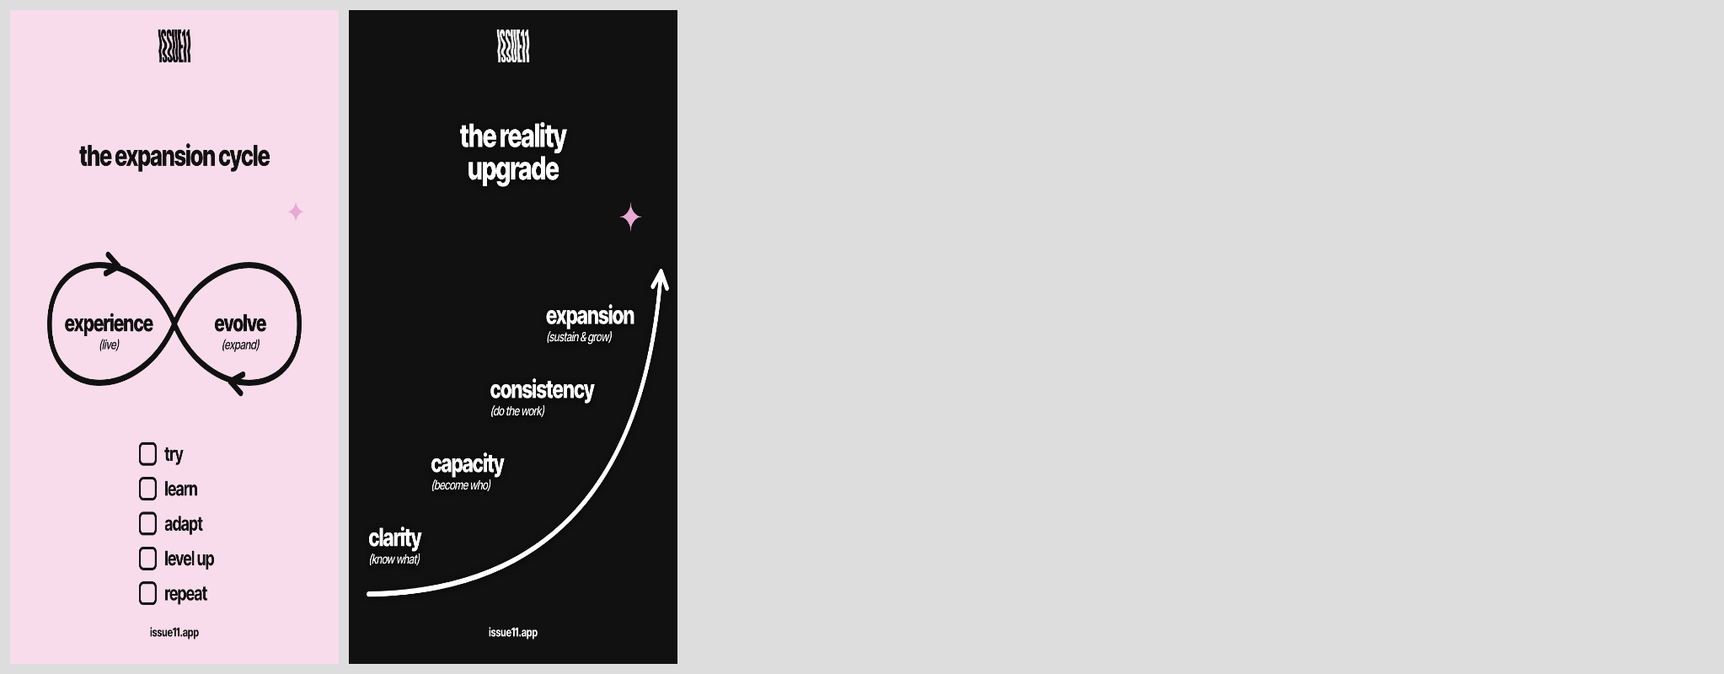
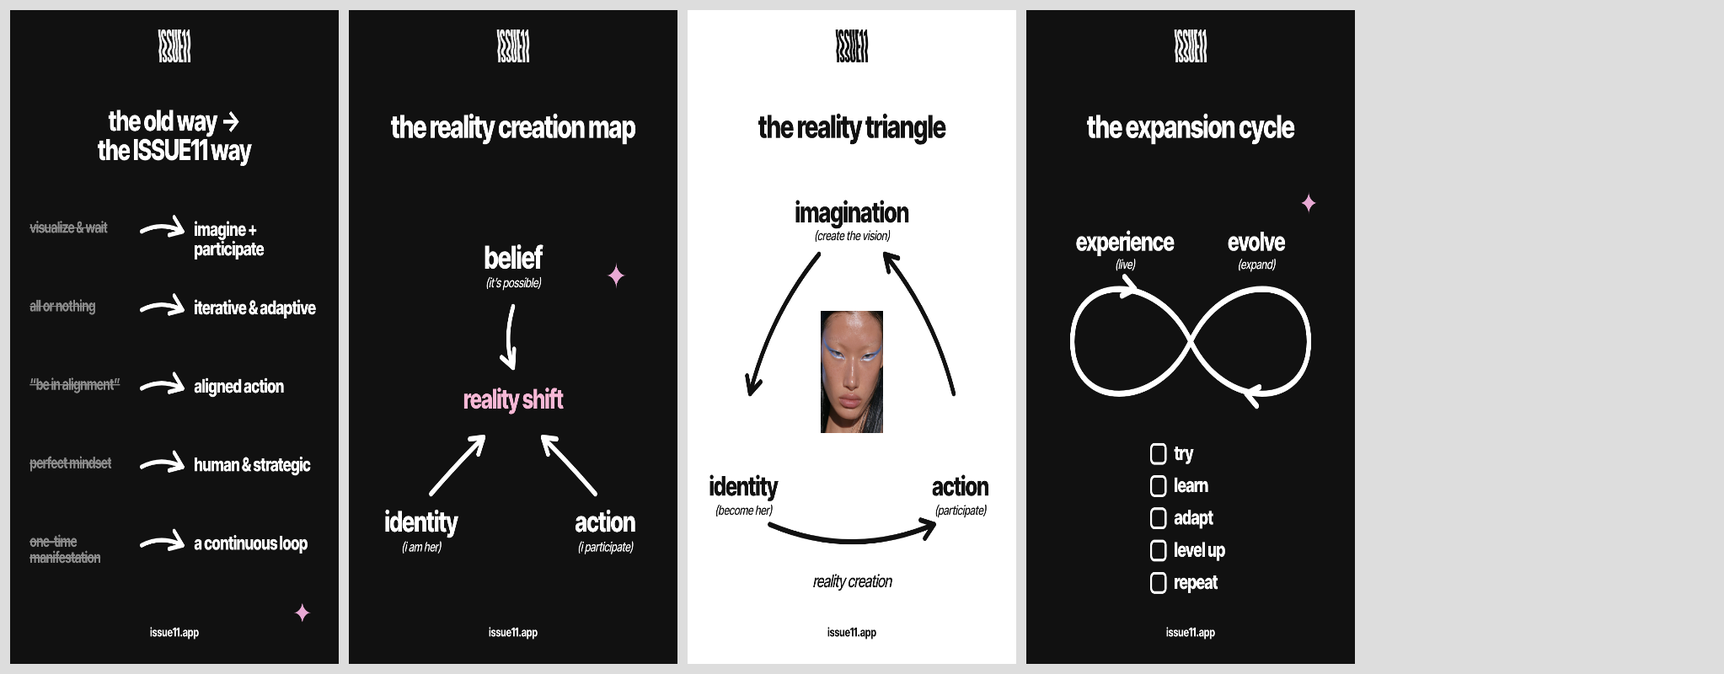
Pinterest: graphs 1-8 redone in the LG9/LG10 look (NG1-NG8)
Claude-Session: https://claude.ai/code/session_01YGtmQppBCBt9nypMHzxSp1

diff --git a/drafts/pinterest/color-test/NG1.dc.html b/drafts/pinterest/color-test/NG1.dc.html
@@ -1,0 +1,37 @@
+<!doctype html>
+<html lang="en">
+<head>
+<meta charset="utf-8">
+<title>Graph v2 1 · old vs new</title>
+<script src="./support.js"></script>
+</head>
+<body>
+<x-dc>
+<helmet>
+<link href="https://fonts.googleapis.com/css2?family=Inter+Tight:wght@500;600;700;800;900&amp;display=swap" rel="stylesheet">
+<style>
+body{margin:0}
+.pin{width:1000px;height:1500px;position:relative;overflow:hidden;font-family:'Inter Tight',system-ui,sans-serif;color:#0D0D0D}
+.bg{position:absolute;inset:0;width:100%;height:100%;object-fit:cover}
+.logo{position:absolute;left:52px;bottom:44px;height:92px}
+.w{filter:invert(1)}
+.tag{position:absolute;font-weight:800;font-size:24px;letter-spacing:.16em;padding:12px 20px;text-transform:uppercase}
+img.f{position:absolute;object-fit:cover;display:block}
+.full{inset:0;width:100%;height:100%}
+.tl{position:absolute;left:50%;top:44px;height:76px;transform:translateX(-50%);z-index:5}
+.url{position:absolute;left:0;right:0;bottom:56px;text-align:center;font-weight:700;font-size:28px;z-index:5}
+.c{position:absolute;left:60px;right:60px;text-align:center}
+.pin{background:#111}
+</style>
+</helmet>
+<div class="pin">
+<img class="tl w" src="/_blob/d196614efc6265e2205729134fb523b8" alt="ISSUE11"><svg viewBox="0 0 1000 1500" style="position:absolute;inset:0"><g fill="none" stroke="#fff" stroke-width="10" stroke-linecap="round" stroke-linejoin="round"><path d="M400 508 Q460 484 525 508"/><path d="M525 508 L484 516"/><path d="M525 508 L499 475"/><path d="M400 688 Q460 664 525 688"/><path d="M525 688 L484 696"/><path d="M525 688 L499 655"/><path d="M400 868 Q460 844 525 868"/><path d="M525 868 L484 876"/><path d="M525 868 L499 835"/><path d="M400 1048 Q460 1024 525 1048"/><path d="M525 1048 L484 1056"/><path d="M525 1048 L499 1015"/><path d="M400 1228 Q460 1204 525 1228"/><path d="M525 1228 L484 1236"/><path d="M525 1228 L499 1195"/></g></svg><div style="position:absolute;left:50px;width:900px;top:220px;text-align:center;font-weight:800;font-size:66px;letter-spacing:-.03em;line-height:1.02;color:#fff;">the old way →<br>the ISSUE11 way</div><div style="position:absolute;left:60px;width:330px;top:480px;text-align:left;font-weight:700;font-size:36px;letter-spacing:-.03em;line-height:1.02;color:#8C8C8C;text-decoration:line-through;text-decoration-thickness:3px">visualize &amp; wait</div><div style="position:absolute;left:560px;width:400px;top:480px;text-align:left;font-weight:800;font-size:44px;letter-spacing:-.03em;line-height:1.02;color:#fff;">imagine + participate</div><div style="position:absolute;left:60px;width:330px;top:660px;text-align:left;font-weight:700;font-size:36px;letter-spacing:-.03em;line-height:1.02;color:#8C8C8C;text-decoration:line-through;text-decoration-thickness:3px">all or nothing</div><div style="position:absolute;left:560px;width:400px;top:660px;text-align:left;font-weight:800;font-size:44px;letter-spacing:-.03em;line-height:1.02;color:#fff;">iterative &amp; adaptive</div><div style="position:absolute;left:60px;width:330px;top:840px;text-align:left;font-weight:700;font-size:36px;letter-spacing:-.03em;line-height:1.02;color:#8C8C8C;text-decoration:line-through;text-decoration-thickness:3px">“be in alignment”</div><div style="position:absolute;left:560px;width:400px;top:840px;text-align:left;font-weight:800;font-size:44px;letter-spacing:-.03em;line-height:1.02;color:#fff;">aligned action</div><div style="position:absolute;left:60px;width:330px;top:1020px;text-align:left;font-weight:700;font-size:36px;letter-spacing:-.03em;line-height:1.02;color:#8C8C8C;text-decoration:line-through;text-decoration-thickness:3px">perfect mindset</div><div style="position:absolute;left:560px;width:400px;top:1020px;text-align:left;font-weight:800;font-size:44px;letter-spacing:-.03em;line-height:1.02;color:#fff;">human &amp; strategic</div><div style="position:absolute;left:60px;width:330px;top:1200px;text-align:left;font-weight:700;font-size:36px;letter-spacing:-.03em;line-height:1.02;color:#8C8C8C;text-decoration:line-through;text-decoration-thickness:3px">one-time manifestation</div><div style="position:absolute;left:560px;width:400px;top:1200px;text-align:left;font-weight:800;font-size:44px;letter-spacing:-.03em;line-height:1.02;color:#fff;">a continuous loop</div><div style="position:absolute;left:860px;top:1340px;color:#E8A9D4;font-size:70px">✦</div><div class="url" style="color:#fff">issue11.app</div>
+</div>
+</x-dc>
+<script type="text/x-dc" data-dc-script data-props='{"$preview":{"width":1000,"height":1500}}'>
+class Component extends DCLogic {
+  renderVals() { return {}; }
+}
+</script>
+</body>
+</html>

diff --git a/drafts/pinterest/color-test/NG7.dc.html b/drafts/pinterest/color-test/NG7.dc.html
@@ -1,0 +1,37 @@
+<!doctype html>
+<html lang="en">
+<head>
+<meta charset="utf-8">
+<title>Graph v2 7 · expansion cycle</title>
+<script src="./support.js"></script>
+</head>
+<body>
+<x-dc>
+<helmet>
+<link href="https://fonts.googleapis.com/css2?family=Inter+Tight:wght@500;600;700;800;900&amp;display=swap" rel="stylesheet">
+<style>
+body{margin:0}
+.pin{width:1000px;height:1500px;position:relative;overflow:hidden;font-family:'Inter Tight',system-ui,sans-serif;color:#0D0D0D}
+.bg{position:absolute;inset:0;width:100%;height:100%;object-fit:cover}
+.logo{position:absolute;left:52px;bottom:44px;height:92px}
+.w{filter:invert(1)}
+.tag{position:absolute;font-weight:800;font-size:24px;letter-spacing:.16em;padding:12px 20px;text-transform:uppercase}
+img.f{position:absolute;object-fit:cover;display:block}
+.full{inset:0;width:100%;height:100%}
+.tl{position:absolute;left:50%;top:44px;height:76px;transform:translateX(-50%);z-index:5}
+.url{position:absolute;left:0;right:0;bottom:56px;text-align:center;font-weight:700;font-size:28px;z-index:5}
+.c{position:absolute;left:60px;right:60px;text-align:center}
+.pin{background:#111}
+</style>
+</helmet>
+<div class="pin">
+<img class="tl w" src="/_blob/d196614efc6265e2205729134fb523b8" alt="ISSUE11"><svg viewBox="0 0 1000 1500" style="position:absolute;inset:0"><g fill="none" stroke="#fff" stroke-width="14" stroke-linecap="round" stroke-linejoin="round"><path d="M500 760 C 400 600, 140 600, 140 760 C 140 920, 400 920, 500 760 C 600 600, 860 600, 860 760 C 860 920, 600 920, 500 760"/><path d="M330 640 L291 655"/><path d="M330 640 L299 612"/><path d="M670 880 L709 865"/><path d="M670 880 L701 908"/><rect x="380" y="996" width="44" height="44" rx="10" stroke-width="6"/><rect x="380" y="1070" width="44" height="44" rx="10" stroke-width="6"/><rect x="380" y="1144" width="44" height="44" rx="10" stroke-width="6"/><rect x="380" y="1218" width="44" height="44" rx="10" stroke-width="6"/><rect x="380" y="1292" width="44" height="44" rx="10" stroke-width="6"/></g></svg><div style="position:absolute;left:50px;width:900px;top:230px;text-align:center;font-weight:800;font-size:72px;letter-spacing:-.03em;line-height:1.02;color:#fff;">the expansion cycle</div><div style="position:absolute;left:0px;width:600px;top:500px;text-align:center;font-weight:800;font-size:60px;letter-spacing:-.03em;line-height:1.02;color:#fff;">experience</div><div style="position:absolute;left:0px;width:600px;top:568px;text-align:center;font-weight:500;font-size:30px;letter-spacing:-.03em;line-height:1.02;color:#fff;font-style:italic;letter-spacing:-.01em;">(live)</div><div style="position:absolute;left:400px;width:600px;top:500px;text-align:center;font-weight:800;font-size:60px;letter-spacing:-.03em;line-height:1.02;color:#fff;">evolve</div><div style="position:absolute;left:400px;width:600px;top:568px;text-align:center;font-weight:500;font-size:30px;letter-spacing:-.03em;line-height:1.02;color:#fff;font-style:italic;letter-spacing:-.01em;">(expand)</div><div style="position:absolute;left:450px;top:992px;text-align:left;font-weight:800;font-size:46px;letter-spacing:-.03em;line-height:1.02;color:#fff;">try</div><div style="position:absolute;left:450px;top:1066px;text-align:left;font-weight:800;font-size:46px;letter-spacing:-.03em;line-height:1.02;color:#fff;">learn</div><div style="position:absolute;left:450px;top:1140px;text-align:left;font-weight:800;font-size:46px;letter-spacing:-.03em;line-height:1.02;color:#fff;">adapt</div><div style="position:absolute;left:450px;top:1214px;text-align:left;font-weight:800;font-size:46px;letter-spacing:-.03em;line-height:1.02;color:#fff;">level up</div><div style="position:absolute;left:450px;top:1288px;text-align:left;font-weight:800;font-size:46px;letter-spacing:-.03em;line-height:1.02;color:#fff;">repeat</div><div style="position:absolute;left:830px;top:400px;color:#E8A9D4;font-size:70px">✦</div><div class="url" style="color:#fff">issue11.app</div>
+</div>
+</x-dc>
+<script type="text/x-dc" data-dc-script data-props='{"$preview":{"width":1000,"height":1500}}'>
+class Component extends DCLogic {
+  renderVals() { return {}; }
+}
+</script>
+</body>
+</html>

diff --git a/drafts/pinterest/color-test/NG5.dc.html b/drafts/pinterest/color-test/NG5.dc.html
@@ -1,0 +1,37 @@
+<!doctype html>
+<html lang="en">
+<head>
+<meta charset="utf-8">
+<title>Graph v2 5 · adaptive loop</title>
+<script src="./support.js"></script>
+</head>
+<body>
+<x-dc>
+<helmet>
+<link href="https://fonts.googleapis.com/css2?family=Inter+Tight:wght@500;600;700;800;900&amp;display=swap" rel="stylesheet">
+<style>
+body{margin:0}
+.pin{width:1000px;height:1500px;position:relative;overflow:hidden;font-family:'Inter Tight',system-ui,sans-serif;color:#0D0D0D}
+.bg{position:absolute;inset:0;width:100%;height:100%;object-fit:cover}
+.logo{position:absolute;left:52px;bottom:44px;height:92px}
+.w{filter:invert(1)}
+.tag{position:absolute;font-weight:800;font-size:24px;letter-spacing:.16em;padding:12px 20px;text-transform:uppercase}
+img.f{position:absolute;object-fit:cover;display:block}
+.full{inset:0;width:100%;height:100%}
+.tl{position:absolute;left:50%;top:44px;height:76px;transform:translateX(-50%);z-index:5}
+.url{position:absolute;left:0;right:0;bottom:56px;text-align:center;font-weight:700;font-size:28px;z-index:5}
+.c{position:absolute;left:60px;right:60px;text-align:center}
+.pin{background:#111}
+</style>
+</helmet>
+<div class="pin">
+<img class="tl w" src="/_blob/d196614efc6265e2205729134fb523b8" alt="ISSUE11"><svg viewBox="0 0 1000 1500" style="position:absolute;inset:0"><g fill="none" stroke="#fff" stroke-width="14" stroke-linecap="round" stroke-linejoin="round"><path d="M190 600 C150 460 220 380 330 360"/><path d="M300 330 l40 30 -40 35"/><path d="M700 380 C860 400 900 520 860 640"/><path d="M820 610 l40 40 45 -45"/><path d="M860 960 C860 1080 780 1150 680 1170"/><path d="M710 1130 l-40 40 45 35"/><path d="M260 1110 C160 1040 140 920 180 830"/><path d="M150 870 l30 -45 40 40"/></g></svg><div style="position:absolute;left:200px;width:600px;top:300px;text-align:center;font-weight:800;font-size:72px;letter-spacing:-.03em;line-height:1.02;color:#fff;">create</div><div style="position:absolute;left:200px;width:600px;top:382px;text-align:center;font-weight:500;font-size:30px;letter-spacing:-.03em;line-height:1.02;color:#fff;font-style:italic;letter-spacing:-.01em;">(a plan / experiment)</div><div style="position:absolute;left:70px;top:650px;text-align:left;font-weight:800;font-size:72px;letter-spacing:-.03em;line-height:1.02;color:#fff;">evolve</div><div style="position:absolute;left:-120px;width:600px;top:735px;text-align:center;font-weight:500;font-size:28px;letter-spacing:-.03em;line-height:1.02;color:#fff;font-style:italic;letter-spacing:-.01em;">(adjust / level up)</div><div style="position:absolute;right:70px;top:650px;text-align:right;font-weight:800;font-size:72px;letter-spacing:-.03em;line-height:1.02;color:#fff;">test</div><div style="position:absolute;left:520px;width:600px;top:735px;text-align:center;font-weight:500;font-size:28px;letter-spacing:-.03em;line-height:1.02;color:#fff;font-style:italic;letter-spacing:-.01em;">(in real life)</div><div style="position:absolute;left:200px;width:600px;top:1150px;text-align:center;font-weight:800;font-size:72px;letter-spacing:-.03em;line-height:1.02;color:#fff;">learn</div><div style="position:absolute;left:200px;width:600px;top:1232px;text-align:center;font-weight:500;font-size:30px;letter-spacing:-.03em;line-height:1.02;color:#fff;font-style:italic;letter-spacing:-.01em;">(what works)</div><div style="position:absolute;left:200px;width:600px;top:860px;text-align:center;font-weight:500;font-size:40px;letter-spacing:-.03em;line-height:1.02;color:#fff;font-style:italic">the adaptive<br>loop</div><div style="position:absolute;left:470px;top:560px;color:#E8A9D4;font-size:90px">✦</div><div class="url" style="color:#fff">issue11.app</div>
+</div>
+</x-dc>
+<script type="text/x-dc" data-dc-script data-props='{"$preview":{"width":1000,"height":1500}}'>
+class Component extends DCLogic {
+  renderVals() { return {}; }
+}
+</script>
+</body>
+</html>

diff --git a/drafts/pinterest/color-test/NG4.dc.html b/drafts/pinterest/color-test/NG4.dc.html
@@ -1,0 +1,37 @@
+<!doctype html>
+<html lang="en">
+<head>
+<meta charset="utf-8">
+<title>Graph v2 4 · versions of you</title>
+<script src="./support.js"></script>
+</head>
+<body>
+<x-dc>
+<helmet>
+<link href="https://fonts.googleapis.com/css2?family=Inter+Tight:wght@500;600;700;800;900&amp;display=swap" rel="stylesheet">
+<style>
+body{margin:0}
+.pin{width:1000px;height:1500px;position:relative;overflow:hidden;font-family:'Inter Tight',system-ui,sans-serif;color:#0D0D0D}
+.bg{position:absolute;inset:0;width:100%;height:100%;object-fit:cover}
+.logo{position:absolute;left:52px;bottom:44px;height:92px}
+.w{filter:invert(1)}
+.tag{position:absolute;font-weight:800;font-size:24px;letter-spacing:.16em;padding:12px 20px;text-transform:uppercase}
+img.f{position:absolute;object-fit:cover;display:block}
+.full{inset:0;width:100%;height:100%}
+.tl{position:absolute;left:50%;top:44px;height:76px;transform:translateX(-50%);z-index:5}
+.url{position:absolute;left:0;right:0;bottom:56px;text-align:center;font-weight:700;font-size:28px;z-index:5}
+.c{position:absolute;left:60px;right:60px;text-align:center}
+.pin{background:#fff}
+</style>
+</helmet>
+<div class="pin">
+<img class="tl " src="/_blob/d196614efc6265e2205729134fb523b8" alt="ISSUE11"><img class="f" src="/_blob/4e778283bc9ea80ceaef2cab845c3108" style="left:640px;top:700px;width:300px;height:430px;object-position:50% 30%" alt="Editorial photo (AI-generated)"><svg viewBox="0 0 1000 1500" style="position:absolute;inset:0"><g fill="none" stroke="#111" stroke-width="12" stroke-linecap="round" stroke-linejoin="round"><path d="M140 1176 Q120 1100 190 1070"/><path d="M190 1070 L165 1104"/><path d="M190 1070 L148 1064"/><path d="M210 936 Q190 860 260 830"/><path d="M260 830 L235 864"/><path d="M260 830 L218 824"/><path d="M280 696 Q260 620 330 590"/><path d="M330 590 L305 624"/><path d="M330 590 L288 584"/></g></svg><div style="position:absolute;left:50px;width:900px;top:230px;text-align:center;font-weight:800;font-size:72px;letter-spacing:-.03em;line-height:1.02;color:#111;">the versions of you</div><div style="position:absolute;left:80px;top:1190px;text-align:left;font-weight:800;font-size:58px;letter-spacing:-.03em;line-height:1.02;color:#111;">current you</div><div style="position:absolute;left:80px;top:1254px;text-align:left;font-weight:500;font-size:30px;letter-spacing:-.03em;line-height:1.02;color:#111;font-style:italic;letter-spacing:-.01em;">(the starting point)</div><div style="position:absolute;left:150px;top:950px;text-align:left;font-weight:800;font-size:58px;letter-spacing:-.03em;line-height:1.02;color:#111;">aligned you</div><div style="position:absolute;left:150px;top:1014px;text-align:left;font-weight:500;font-size:30px;letter-spacing:-.03em;line-height:1.02;color:#111;font-style:italic;letter-spacing:-.01em;">(making it real)</div><div style="position:absolute;left:220px;top:710px;text-align:left;font-weight:800;font-size:58px;letter-spacing:-.03em;line-height:1.02;color:#111;">evolving you</div><div style="position:absolute;left:220px;top:774px;text-align:left;font-weight:500;font-size:30px;letter-spacing:-.03em;line-height:1.02;color:#111;font-style:italic;letter-spacing:-.01em;">(in process)</div><div style="position:absolute;left:290px;top:470px;text-align:left;font-weight:800;font-size:58px;letter-spacing:-.03em;line-height:1.02;color:#111;">expanded you</div><div style="position:absolute;left:290px;top:534px;text-align:left;font-weight:500;font-size:30px;letter-spacing:-.03em;line-height:1.02;color:#111;font-style:italic;letter-spacing:-.01em;">(what’s next)</div><div class="url" style="color:#111">issue11.app</div>
+</div>
+</x-dc>
+<script type="text/x-dc" data-dc-script data-props='{"$preview":{"width":1000,"height":1500}}'>
+class Component extends DCLogic {
+  renderVals() { return {}; }
+}
+</script>
+</body>
+</html>

diff --git a/drafts/pinterest/color-test/NG2.dc.html b/drafts/pinterest/color-test/NG2.dc.html
@@ -1,0 +1,37 @@
+<!doctype html>
+<html lang="en">
+<head>
+<meta charset="utf-8">
+<title>Graph v2 2 · desire to reality</title>
+<script src="./support.js"></script>
+</head>
+<body>
+<x-dc>
+<helmet>
+<link href="https://fonts.googleapis.com/css2?family=Inter+Tight:wght@500;600;700;800;900&amp;display=swap" rel="stylesheet">
+<style>
+body{margin:0}
+.pin{width:1000px;height:1500px;position:relative;overflow:hidden;font-family:'Inter Tight',system-ui,sans-serif;color:#0D0D0D}
+.bg{position:absolute;inset:0;width:100%;height:100%;object-fit:cover}
+.logo{position:absolute;left:52px;bottom:44px;height:92px}
+.w{filter:invert(1)}
+.tag{position:absolute;font-weight:800;font-size:24px;letter-spacing:.16em;padding:12px 20px;text-transform:uppercase}
+img.f{position:absolute;object-fit:cover;display:block}
+.full{inset:0;width:100%;height:100%}
+.tl{position:absolute;left:50%;top:44px;height:76px;transform:translateX(-50%);z-index:5}
+.url{position:absolute;left:0;right:0;bottom:56px;text-align:center;font-weight:700;font-size:28px;z-index:5}
+.c{position:absolute;left:60px;right:60px;text-align:center}
+.pin{background:#fff}
+</style>
+</helmet>
+<div class="pin">
+<img class="tl " src="/_blob/d196614efc6265e2205729134fb523b8" alt="ISSUE11"><img class="f" src="/_blob/2f1673a637c73371ea14b83819994320" style="left:660px;top:880px;width:280px;height:400px;object-position:50% 30%" alt="Editorial photo (AI-generated)"><svg viewBox="0 0 1000 1500" style="position:absolute;inset:0"><g fill="none" stroke="#111" stroke-width="12" stroke-linecap="round" stroke-linejoin="round"><path d="M90 1200 Q100 1050 205 1046"/><path d="M205 1046 L170 1069"/><path d="M205 1046 L168 1026"/><path d="M260 990 Q270 840 375 836"/><path d="M375 836 L340 859"/><path d="M375 836 L338 816"/><path d="M430 780 Q440 630 535 626"/><path d="M535 626 L500 649"/><path d="M535 626 L498 606"/></g></svg><div style="position:absolute;left:50px;width:900px;top:220px;text-align:center;font-weight:800;font-size:72px;letter-spacing:-.03em;line-height:1.02;color:#111;">from desire to reality</div><div style="position:absolute;left:60px;top:1220px;text-align:left;font-weight:800;font-size:60px;letter-spacing:-.03em;line-height:1.02;color:#111;">1 desire</div><div style="position:absolute;left:60px;top:1288px;text-align:left;font-weight:500;font-size:30px;letter-spacing:-.03em;line-height:1.02;color:#111;font-style:italic;letter-spacing:-.01em;">define it</div><div style="position:absolute;left:230px;top:1010px;text-align:left;font-weight:800;font-size:60px;letter-spacing:-.03em;line-height:1.02;color:#111;">2 imagine</div><div style="position:absolute;left:230px;top:1078px;text-align:left;font-weight:500;font-size:30px;letter-spacing:-.03em;line-height:1.02;color:#111;font-style:italic;letter-spacing:-.01em;">rehearse it</div><div style="position:absolute;left:400px;top:800px;text-align:left;font-weight:800;font-size:60px;letter-spacing:-.03em;line-height:1.02;color:#111;">3 act</div><div style="position:absolute;left:400px;top:868px;text-align:left;font-weight:500;font-size:30px;letter-spacing:-.03em;line-height:1.02;color:#111;font-style:italic;letter-spacing:-.01em;">make it real</div><div style="position:absolute;left:560px;top:590px;text-align:left;font-weight:800;font-size:60px;letter-spacing:-.03em;line-height:1.02;color:#111;">4 evolve</div><div style="position:absolute;left:560px;top:658px;text-align:left;font-weight:500;font-size:30px;letter-spacing:-.03em;line-height:1.02;color:#111;font-style:italic;letter-spacing:-.01em;">adapt &amp; grow</div><div class="url" style="color:#111">issue11.app</div>
+</div>
+</x-dc>
+<script type="text/x-dc" data-dc-script data-props='{"$preview":{"width":1000,"height":1500}}'>
+class Component extends DCLogic {
+  renderVals() { return {}; }
+}
+</script>
+</body>
+</html>

diff --git a/drafts/pinterest/color-test/NG6.dc.html b/drafts/pinterest/color-test/NG6.dc.html
@@ -1,0 +1,37 @@
+<!doctype html>
+<html lang="en">
+<head>
+<meta charset="utf-8">
+<title>Graph v2 6 · reality triangle</title>
+<script src="./support.js"></script>
+</head>
+<body>
+<x-dc>
+<helmet>
+<link href="https://fonts.googleapis.com/css2?family=Inter+Tight:wght@500;600;700;800;900&amp;display=swap" rel="stylesheet">
+<style>
+body{margin:0}
+.pin{width:1000px;height:1500px;position:relative;overflow:hidden;font-family:'Inter Tight',system-ui,sans-serif;color:#0D0D0D}
+.bg{position:absolute;inset:0;width:100%;height:100%;object-fit:cover}
+.logo{position:absolute;left:52px;bottom:44px;height:92px}
+.w{filter:invert(1)}
+.tag{position:absolute;font-weight:800;font-size:24px;letter-spacing:.16em;padding:12px 20px;text-transform:uppercase}
+img.f{position:absolute;object-fit:cover;display:block}
+.full{inset:0;width:100%;height:100%}
+.tl{position:absolute;left:50%;top:44px;height:76px;transform:translateX(-50%);z-index:5}
+.url{position:absolute;left:0;right:0;bottom:56px;text-align:center;font-weight:700;font-size:28px;z-index:5}
+.c{position:absolute;left:60px;right:60px;text-align:center}
+.pin{background:#fff}
+</style>
+</helmet>
+<div class="pin">
+<img class="tl " src="/_blob/d196614efc6265e2205729134fb523b8" alt="ISSUE11"><img class="f" src="/_blob/aad3cb4d8a25e93713be097d5e182795" style="left:405px;top:690px;width:190px;height:280px;object-position:50% 25%" alt="Editorial photo (AI-generated)"><svg viewBox="0 0 1000 1500" style="position:absolute;inset:0"><g fill="none" stroke="#111" stroke-width="12" stroke-linecap="round" stroke-linejoin="round"><path d="M400 560 Q250 700 190 880"/><path d="M190 880 L181 839"/><path d="M190 880 L222 853"/><path d="M250 1180 Q500 1260 750 1180"/><path d="M750 1180 L722 1212"/><path d="M750 1180 L709 1170"/><path d="M810 880 Q750 700 600 560"/><path d="M600 560 L641 569"/><path d="M600 560 L612 600"/></g></svg><div style="position:absolute;left:200px;width:600px;top:430px;text-align:center;font-weight:800;font-size:66px;letter-spacing:-.03em;line-height:1.02;color:#111;">imagination</div><div style="position:absolute;left:200px;width:600px;top:502px;text-align:center;font-weight:500;font-size:30px;letter-spacing:-.03em;line-height:1.02;color:#111;font-style:italic;letter-spacing:-.01em;">(create the vision)</div><div style="position:absolute;left:-130px;width:600px;top:1060px;text-align:center;font-weight:800;font-size:62px;letter-spacing:-.03em;line-height:1.02;color:#111;">identity</div><div style="position:absolute;left:-130px;width:600px;top:1132px;text-align:center;font-weight:500;font-size:30px;letter-spacing:-.03em;line-height:1.02;color:#111;font-style:italic;letter-spacing:-.01em;">(become her)</div><div style="position:absolute;left:530px;width:600px;top:1060px;text-align:center;font-weight:800;font-size:62px;letter-spacing:-.03em;line-height:1.02;color:#111;">action</div><div style="position:absolute;left:530px;width:600px;top:1132px;text-align:center;font-weight:500;font-size:30px;letter-spacing:-.03em;line-height:1.02;color:#111;font-style:italic;letter-spacing:-.01em;">(participate)</div><div style="position:absolute;left:200px;width:600px;top:1290px;text-align:center;font-weight:500;font-size:40px;letter-spacing:-.03em;line-height:1.02;color:#111;font-style:italic">reality creation</div><div style="position:absolute;left:50px;width:900px;top:230px;text-align:center;font-weight:800;font-size:72px;letter-spacing:-.03em;line-height:1.02;color:#111;">the reality triangle</div><div class="url" style="color:#111">issue11.app</div>
+</div>
+</x-dc>
+<script type="text/x-dc" data-dc-script data-props='{"$preview":{"width":1000,"height":1500}}'>
+class Component extends DCLogic {
+  renderVals() { return {}; }
+}
+</script>
+</body>
+</html>

diff --git a/drafts/pinterest/color-test/NG8.dc.html b/drafts/pinterest/color-test/NG8.dc.html
@@ -1,0 +1,37 @@
+<!doctype html>
+<html lang="en">
+<head>
+<meta charset="utf-8">
+<title>Graph v2 8 · self-concept to reality</title>
+<script src="./support.js"></script>
+</head>
+<body>
+<x-dc>
+<helmet>
+<link href="https://fonts.googleapis.com/css2?family=Inter+Tight:wght@500;600;700;800;900&amp;display=swap" rel="stylesheet">
+<style>
+body{margin:0}
+.pin{width:1000px;height:1500px;position:relative;overflow:hidden;font-family:'Inter Tight',system-ui,sans-serif;color:#0D0D0D}
+.bg{position:absolute;inset:0;width:100%;height:100%;object-fit:cover}
+.logo{position:absolute;left:52px;bottom:44px;height:92px}
+.w{filter:invert(1)}
+.tag{position:absolute;font-weight:800;font-size:24px;letter-spacing:.16em;padding:12px 20px;text-transform:uppercase}
+img.f{position:absolute;object-fit:cover;display:block}
+.full{inset:0;width:100%;height:100%}
+.tl{position:absolute;left:50%;top:44px;height:76px;transform:translateX(-50%);z-index:5}
+.url{position:absolute;left:0;right:0;bottom:56px;text-align:center;font-weight:700;font-size:28px;z-index:5}
+.c{position:absolute;left:60px;right:60px;text-align:center}
+.pin{background:#fff}
+</style>
+</helmet>
+<div class="pin">
+<img class="tl " src="/_blob/d196614efc6265e2205729134fb523b8" alt="ISSUE11"><img class="f" src="/_blob/fe93ea3b39f07ff739b7ef958b5ba623" style="left:380px;top:640px;width:240px;height:420px;object-position:50% 25%" alt="Editorial photo (AI-generated)"><svg viewBox="0 0 1000 1500" style="position:absolute;inset:0"><g fill="none" stroke="#111" stroke-width="12" stroke-linecap="round" stroke-linejoin="round"><path d="M230 640 Q250 780 350 800"/><path d="M350 800 L310 814"/><path d="M350 800 L319 772"/><path d="M770 640 Q750 780 650 800"/><path d="M650 800 L681 772"/><path d="M650 800 L690 814"/></g></svg><div style="position:absolute;left:50px;width:900px;top:230px;text-align:center;font-weight:800;font-size:72px;letter-spacing:-.03em;line-height:1.02;color:#111;">self-concept → reality</div><div style="position:absolute;left:-70px;width:600px;top:470px;text-align:center;font-weight:800;font-size:46px;letter-spacing:-.03em;line-height:1.02;color:#111;">how you<br>see yourself</div><div style="position:absolute;left:-70px;width:600px;top:580px;text-align:center;font-weight:500;font-size:30px;letter-spacing:-.03em;line-height:1.02;color:#111;font-style:italic;letter-spacing:-.01em;">(identity)</div><div style="position:absolute;left:470px;width:600px;top:500px;text-align:center;font-weight:800;font-size:46px;letter-spacing:-.03em;line-height:1.02;color:#111;">how you act</div><div style="position:absolute;left:470px;width:600px;top:560px;text-align:center;font-weight:500;font-size:30px;letter-spacing:-.03em;line-height:1.02;color:#111;font-style:italic;letter-spacing:-.01em;">(behavior)</div><div style="position:absolute;left:200px;width:600px;top:1110px;text-align:center;font-weight:800;font-size:64px;letter-spacing:-.03em;line-height:1.02;color:#111;color:#C2207E">how you live</div><div style="position:absolute;left:200px;width:600px;top:1184px;text-align:center;font-weight:500;font-size:30px;letter-spacing:-.03em;line-height:1.02;color:#111;font-style:italic;letter-spacing:-.01em;">(reality)</div><div style="position:absolute;left:200px;width:600px;top:1290px;text-align:center;font-weight:500;font-size:36px;letter-spacing:-.03em;line-height:1.02;color:#111;font-style:italic">self-concept → decisions → outcomes</div><div class="url" style="color:#111">issue11.app</div>
+</div>
+</x-dc>
+<script type="text/x-dc" data-dc-script data-props='{"$preview":{"width":1000,"height":1500}}'>
+class Component extends DCLogic {
+  renderVals() { return {}; }
+}
+</script>
+</body>
+</html>

diff --git a/drafts/pinterest/color-test/NG3.dc.html b/drafts/pinterest/color-test/NG3.dc.html
@@ -1,0 +1,37 @@
+<!doctype html>
+<html lang="en">
+<head>
+<meta charset="utf-8">
+<title>Graph v2 3 · reality creation map</title>
+<script src="./support.js"></script>
+</head>
+<body>
+<x-dc>
+<helmet>
+<link href="https://fonts.googleapis.com/css2?family=Inter+Tight:wght@500;600;700;800;900&amp;display=swap" rel="stylesheet">
+<style>
+body{margin:0}
+.pin{width:1000px;height:1500px;position:relative;overflow:hidden;font-family:'Inter Tight',system-ui,sans-serif;color:#0D0D0D}
+.bg{position:absolute;inset:0;width:100%;height:100%;object-fit:cover}
+.logo{position:absolute;left:52px;bottom:44px;height:92px}
+.w{filter:invert(1)}
+.tag{position:absolute;font-weight:800;font-size:24px;letter-spacing:.16em;padding:12px 20px;text-transform:uppercase}
+img.f{position:absolute;object-fit:cover;display:block}
+.full{inset:0;width:100%;height:100%}
+.tl{position:absolute;left:50%;top:44px;height:76px;transform:translateX(-50%);z-index:5}
+.url{position:absolute;left:0;right:0;bottom:56px;text-align:center;font-weight:700;font-size:28px;z-index:5}
+.c{position:absolute;left:60px;right:60px;text-align:center}
+.pin{background:#111}
+</style>
+</helmet>
+<div class="pin">
+<img class="tl w" src="/_blob/d196614efc6265e2205729134fb523b8" alt="ISSUE11"><svg viewBox="0 0 1000 1500" style="position:absolute;inset:0"><g fill="none" stroke="#fff" stroke-width="12" stroke-linecap="round" stroke-linejoin="round"><path d="M500 680 Q470 760 500 820"/><path d="M500 820 L465 797"/><path d="M500 820 L503 778"/><path d="M250 1110 Q330 1040 410 980"/><path d="M410 980 L394 1019"/><path d="M410 980 L368 984"/><path d="M750 1110 Q670 1040 590 980"/><path d="M590 980 L632 984"/><path d="M590 980 L606 1019"/></g></svg><div style="position:absolute;left:50px;width:900px;top:230px;text-align:center;font-weight:800;font-size:72px;letter-spacing:-.03em;line-height:1.02;color:#fff;">the reality creation map</div><div style="position:absolute;left:200px;width:600px;top:530px;text-align:center;font-weight:800;font-size:72px;letter-spacing:-.03em;line-height:1.02;color:#fff;">belief</div><div style="position:absolute;left:200px;width:600px;top:610px;text-align:center;font-weight:500;font-size:30px;letter-spacing:-.03em;line-height:1.02;color:#fff;font-style:italic;letter-spacing:-.01em;">(it’s possible)</div><div style="position:absolute;left:200px;width:600px;top:860px;text-align:center;font-weight:800;font-size:62px;letter-spacing:-.03em;line-height:1.02;color:#fff;color:#F7B8D6">reality shift</div><div style="position:absolute;left:-80px;width:600px;top:1140px;text-align:center;font-weight:800;font-size:66px;letter-spacing:-.03em;line-height:1.02;color:#fff;">identity</div><div style="position:absolute;left:-80px;width:600px;top:1216px;text-align:center;font-weight:500;font-size:30px;letter-spacing:-.03em;line-height:1.02;color:#fff;font-style:italic;letter-spacing:-.01em;">(i am her)</div><div style="position:absolute;left:480px;width:600px;top:1140px;text-align:center;font-weight:800;font-size:66px;letter-spacing:-.03em;line-height:1.02;color:#fff;">action</div><div style="position:absolute;left:480px;width:600px;top:1216px;text-align:center;font-weight:500;font-size:30px;letter-spacing:-.03em;line-height:1.02;color:#fff;font-style:italic;letter-spacing:-.01em;">(i participate)</div><div style="position:absolute;left:780px;top:560px;color:#E8A9D4;font-size:80px">✦</div><div class="url" style="color:#fff">issue11.app</div>
+</div>
+</x-dc>
+<script type="text/x-dc" data-dc-script data-props='{"$preview":{"width":1000,"height":1500}}'>
+class Component extends DCLogic {
+  renderVals() { return {}; }
+}
+</script>
+</body>
+</html>

diff --git a/drafts/pinterest/color-test/graphmix2_gen.py b/drafts/pinterest/color-test/graphmix2_gen.py
@@ -1,0 +1,85 @@
+# Redo of LG1–LG8 in the LG9 / LG10 family (NG1–NG8), Nov 17. Megan: "ok i like Graph mix 9 and 10" + "The other ones the font doesn't fit in the grahs" + "especially 3 4 6".
+# Megan: "I want the graphs to keep the look of pin # 100" + "Yes but I need you to mix and match the content of the pins too".
+# #100 look = thick round hand-drawn arrows/lines, bold floating words, no boxes. Wording = her graphs, word for word (lowercased). No eyebrow labels.
+import math, gen9, gen8, gen13
+from gen4 import B
+from gen import doc, LOGO
+from gen11 import S, T, U, s
+A='alt="Editorial photo (AI-generated)"'
+def head(x2,y2,cx,cy,L=42):
+    a=math.atan2(y2-cy,x2-cx); o=''
+    for d in (2.6,-2.6):
+        o+=f'<path d="M{x2:.0f} {y2:.0f} L{x2+L*math.cos(a+d):.0f} {y2+L*math.sin(a+d):.0f}"/>'
+    return o
+def arr(x1,y1,cx,cy,x2,y2,hd=True):  # quadratic hand arrow
+    return f'<path d="M{x1} {y1} Q{cx} {cy} {x2} {y2}"/>'+(head(x2,y2,cx,cy) if hd else '')
+def svg(inner,ink,sw): return f'<svg viewBox="0 0 1000 1500" style="position:absolute;inset:0"><g fill="none" stroke="{ink}" stroke-width="{sw}" stroke-linecap="round" stroke-linejoin="round">{inner}</g></svg>'
+def w(x,y,t,ink,fw=800,fs=70,al='left',extra='',width=None):
+    pos=f'left:{x}px;' if al=='left' else (f'right:{x}px;' if al=='right' else f'left:{x-300}px;width:600px;')
+    if width: pos=f'left:{x}px;width:{width}px;'
+    return f'<div style="position:absolute;{pos}top:{y}px;text-align:{"center" if al=="center" else al};font-weight:{fw};font-size:{fs}px;letter-spacing:-.03em;line-height:1.02;color:{ink};{extra}">{t}</div>'
+def sub(x,y,t,ink,fs=34,al='center',extra=''): return w(x,y,t,ink,500,fs,al,'font-style:italic;letter-spacing:-.01em;'+extra)
+SP=lambda x,y,c,f=100: f'<div style="position:absolute;left:{x}px;top:{y}px;color:{c};font-size:{f}px">✦</div>'
+P={}
+# Rule from LG9/LG10: bold 800 words + small italic subs sit in OPEN space, never inside circles/triangles; graph = hand-drawn arrows (#100 look);
+# two looks only: black + white ink (LG9) or white + framed photo (LG10). Titles bold, centred, like LG9.
+K='#111'; WH='#fff'
+def pin(k,title,dark,body,photo=None,pos='50% 25%',box=(360,560,280,400)):
+    ink=WH if dark else K
+    ph=f'<img class="f" src="{s(photo)}" style="left:{box[0]}px;top:{box[1]}px;width:{box[2]}px;height:{box[3]}px;object-position:{pos}" {A}>' if photo else ''
+    P[k]=doc(f'Graph v2 {k[2:]} · {title}',S+f'.pin{{background:{"#111" if dark else "#fff"}}}',f'{T("w" if dark else "")}{ph}{body}{U(ink)}')
+TL=lambda t,ink,y=230: w(50,y,t,ink,800,72,'center',width=900)
+# NG1 · old way → ISSUE11 way · black
+old=["visualize &amp; wait","all or nothing","“be in alignment”","perfect mindset","one-time manifestation"]; new=["imagine + participate","iterative &amp; adaptive","aligned action","human &amp; strategic","a continuous loop"]
+b=w(50,220,'the old way →<br>the ISSUE11 way',WH,800,66,'center',width=900); g=''
+for i,(o,n) in enumerate(zip(old,new)):
+    y=480+i*180
+    b+=w(60,y,o,'#8C8C8C',700,36,width=330,extra='text-decoration:line-through;text-decoration-thickness:3px')+w(560,y,n,WH,800,44,width=400)
+    g+=arr(400,y+28,460,y+4,525,y+28)
+pin('NG1','old vs new',True,svg(g,WH,10)+b+SP(860,1340,'#E8A9D4',70))
+# NG2 · from desire to reality · white + photo top right
+pt=[(60,1220,'1 desire','define it'),(230,1010,'2 imagine','rehearse it'),(400,800,'3 act','make it real'),(560,590,'4 evolve','adapt &amp; grow')]
+g=''; b=TL('from desire to reality',K,220)
+for i,(x,y,t,sb) in enumerate(pt):
+    b+=w(x,y,t,K,800,60)+sub(x,y+68,sb,K,30,'left')
+    if i<3: nx,ny=pt[i+1][:2]; g+=arr(x+30,y-20,x+40,ny+40,nx-25,ny+36)
+pin('NG2','desire to reality',False,svg(g,K,12)+b,photo='curls',pos='50% 30%',box=(660,880,280,400))
+# NG3 · reality creation map · black: 3 words around, arrows pointing in to "reality shift"
+g=arr(500,680,470,760,500,820)+arr(250,1110,330,1040,410,980)+arr(750,1110,670,1040,590,980)
+b=TL('the reality creation map',WH)
+b+=w(500,530,'belief',WH,800,72,'center')+sub(500,610,'(it’s possible)',WH,30)
+b+=w(500,860,'reality shift',WH,800,62,'center','color:#F7B8D6')
+b+=w(220,1140,'identity',WH,800,66,'center')+sub(220,1216,'(i am her)',WH,30)+w(780,1140,'action',WH,800,66,'center')+sub(780,1216,'(i participate)',WH,30)
+pin('NG3','reality creation map',True,svg(g,WH,12)+b+SP(780,560,'#E8A9D4',80))
+# NG4 · versions of you · white + photo: bottom→top with arrows
+st=[(1190,'current you','(the starting point)'),(950,'aligned you','(making it real)'),(710,'evolving you','(in process)'),(470,'expanded you','(what’s next)')]
+b=TL('the versions of you',K); g=''
+for i,(y,a,c) in enumerate(st):
+    x=80+i*70
+    b+=w(x,y,a,K,800,58)+sub(x,y+64,c,K,30,'left')
+    if i<3: g+=arr(x+60,y-14,x+40,y-90,x+110,st[i+1][0]+120)
+pin('NG4','versions of you',False,svg(g,K,12)+b,photo='pinkgloss',pos='50% 30%',box=(640,700,300,430))
+# NG5 · adaptive loop · black, #100 loop in white (LG10 layout)
+ARW='<path d="M190 600 C150 460 220 380 330 360"/><path d="M300 330 l40 30 -40 35"/><path d="M700 380 C860 400 900 520 860 640"/><path d="M820 610 l40 40 45 -45"/><path d="M860 960 C860 1080 780 1150 680 1170"/><path d="M710 1130 l-40 40 45 35"/><path d="M260 1110 C160 1040 140 920 180 830"/><path d="M150 870 l30 -45 40 40"/>'
+b=w(500,300,'create',WH,800,72,'center')+sub(500,382,'(a plan / experiment)',WH,30)+w(70,650,'evolve',WH,800,72)+sub(180,735,'(adjust / level up)',WH,28)+w(70,650,'test',WH,800,72,'right')+sub(820,735,'(in real life)',WH,28)+w(500,1150,'learn',WH,800,72,'center')+sub(500,1232,'(what works)',WH,30)
+b+=w(500,860,'the adaptive<br>loop',WH,500,40,'center','font-style:italic')
+pin('NG5','adaptive loop',True,svg(ARW,WH,14)+b+SP(470,560,'#E8A9D4',90))
+# NG6 · reality triangle · white + photo in the middle, corners linked by arrows
+g=arr(400,560,250,700,190,880)+arr(250,1180,500,1260,750,1180)+arr(810,880,750,700,600,560)
+b=w(500,430,'imagination',K,800,66,'center')+sub(500,502,'(create the vision)',K,30)
+b+=w(170,1060,'identity',K,800,62,'center')+sub(170,1132,'(become her)',K,30)+w(830,1060,'action',K,800,62,'center')+sub(830,1132,'(participate)',K,30)
+b+=w(500,1290,'reality creation',K,500,40,'center','font-style:italic')+TL('the reality triangle',K,230)
+pin('NG6','reality triangle',False,svg(g,K,12)+b,photo='blue',pos='50% 25%',box=(405,690,190,280))
+# NG7 · expansion cycle · black
+g='<path d="M500 760 C 400 600, 140 600, 140 760 C 140 920, 400 920, 500 760 C 600 600, 860 600, 860 760 C 860 920, 600 920, 500 760"/>'+head(330,640,250,625)+head(670,880,750,895)
+b=TL('the expansion cycle',WH)+w(300,500,'experience',WH,800,60,'center')+sub(300,568,'(live)',WH,30)+w(700,500,'evolve',WH,800,60,'center')+sub(700,568,'(expand)',WH,30)
+for i,tx_ in enumerate(['try','learn','adapt','level up','repeat']):
+    y=1000+i*74; g+=f'<rect x="380" y="{y-4}" width="44" height="44" rx="10" stroke-width="6"/>'; b+=w(450,y-8,tx_,WH,800,46)
+pin('NG7','expansion cycle',True,svg(g,WH,14)+b+SP(830,400,'#E8A9D4',70))
+# NG8 · self-concept → reality · white + photo, two words flowing into it
+g=arr(230,640,250,780,350,800)+arr(770,640,750,780,650,800)
+b=TL('self-concept → reality',K)+w(230,470,'how you<br>see yourself',K,800,46,'center')+sub(230,580,'(identity)',K,30)+w(770,500,'how you act',K,800,46,'center')+sub(770,560,'(behavior)',K,30)
+b+=w(500,1110,'how you live',K,800,64,'center','color:#C2207E')+sub(500,1184,'(reality)',K,30)+w(500,1290,'self-concept → decisions → outcomes',K,500,36,'center','font-style:italic')
+pin('NG8','self-concept to reality',False,svg(g,K,12)+b,photo='red',pos='50% 25%',box=(380,640,240,420))
+for k,v in P.items(): open(f'{k}.dc.html','w').write(v)
+print(len(P))

diff --git a/.pipeline/lessons.md b/.pipeline/lessons.md
@@ -666,3 +666,4 @@ Format: `- YYYY-MM-DD · <agent> · <what> · why · cost`
 - 2026-11-17 · DECISION (Megan, word for word: "yes but the quote is from Paris Hilton lol let's mention her"): M1 mermaid mini carousel credits Paris Hilton. Flag was raised once; don't raise it again for this quote.
 - 2026-11-17 · SOURCE (Megan): "ISSUE11 Editorial Hooks & Visual Philosophy" (ChatGPT doc, "it's excellent") saved as text in drafts/social/sources/. Megan: hooks "might be reframed to match the lexicon of our audience and not making it sound like chatgpt wrote it". Reframes in drafts/social/HOOKS-REFRAMED.md. Its visuals still say "I AM HER"/"BECOME HER": fix before use.
 - 2026-11-17 · DECISION (Megan, word for word, full text in design/POSITIONING.md → "The New Way of Manifestation"): "I would resist the temptation to dilute this positioning with generic viral manifestation content, even if it generates more views." · "ISSUE11 should feel like a new intellectual and cultural movement that happens to have an app." Positioning test for every post: would she think "Finally, someone is talking about manifestation the way I've always felt about it"? Viral formats are allowed only as the wrapper; the content inside must carry the ISSUE11 philosophy, visual language and vocabulary.
+- 2026-11-17 · RULE (Pinterest graphs): words never go inside circles or triangles. Megan: "ok i like Graph mix 9 and 10" + "The other ones the font doesn't fit in the grahs" + "especially 3 4 6" + "and 8". Graph look = LG9 (black, white bold words + hand arrows) or LG10 (white, #100 arrows, framed photo); bold words + small italic subs in open space, arrows connect them.

diff --git a/drafts/pinterest/carousels/README.md b/drafts/pinterest/carousels/README.md
@@ -25,3 +25,4 @@ Suggested pin title (keyword first): "2027 Vision Board Ideas: Make Your Vision 
 - **Pinterest 1000×1500 (2:3):** scale the slide to 1000 wide (1000×1250) and add 125px of the same background above and below, or re-lay the slide at 1000×1500 the way CAR2–CAR4 are. Pinterest allows 2–5 slides, so cut to 5: CAR16 → 1, 2, 3, 4, 5 (drop the ending; issue11.app stays on every slide). CAR17 → 1, 2, 3, 4, 6.
 - Nov 17 · Megan: "keep the look of pin # 100" + "1 graph in different pin styles" → LP1–LP9 (manifestation loop × 9 pin styles) | ../color-test/loopstyles_gen.py | QA 390 passed · on canvas · waiting for her picks
 - Nov 17 · Megan: "Yes but I need you to mix and match the content of the pins too" → LG1–LG10: her other 10 graphs, each in the #100 look and a different pin style | ../color-test/graphmix_gen.py | QA 390 + 236 passed · on canvas · waiting for her picks
+- Nov 17 · Megan liked LG9 + LG10; "the font doesn't fit in the grahs" (esp. 3 4 6 8) → NG1–NG8 redone in the LG9/LG10 look | ../color-test/graphmix2_gen.py | QA 390 + 236 passed · on canvas · waiting
